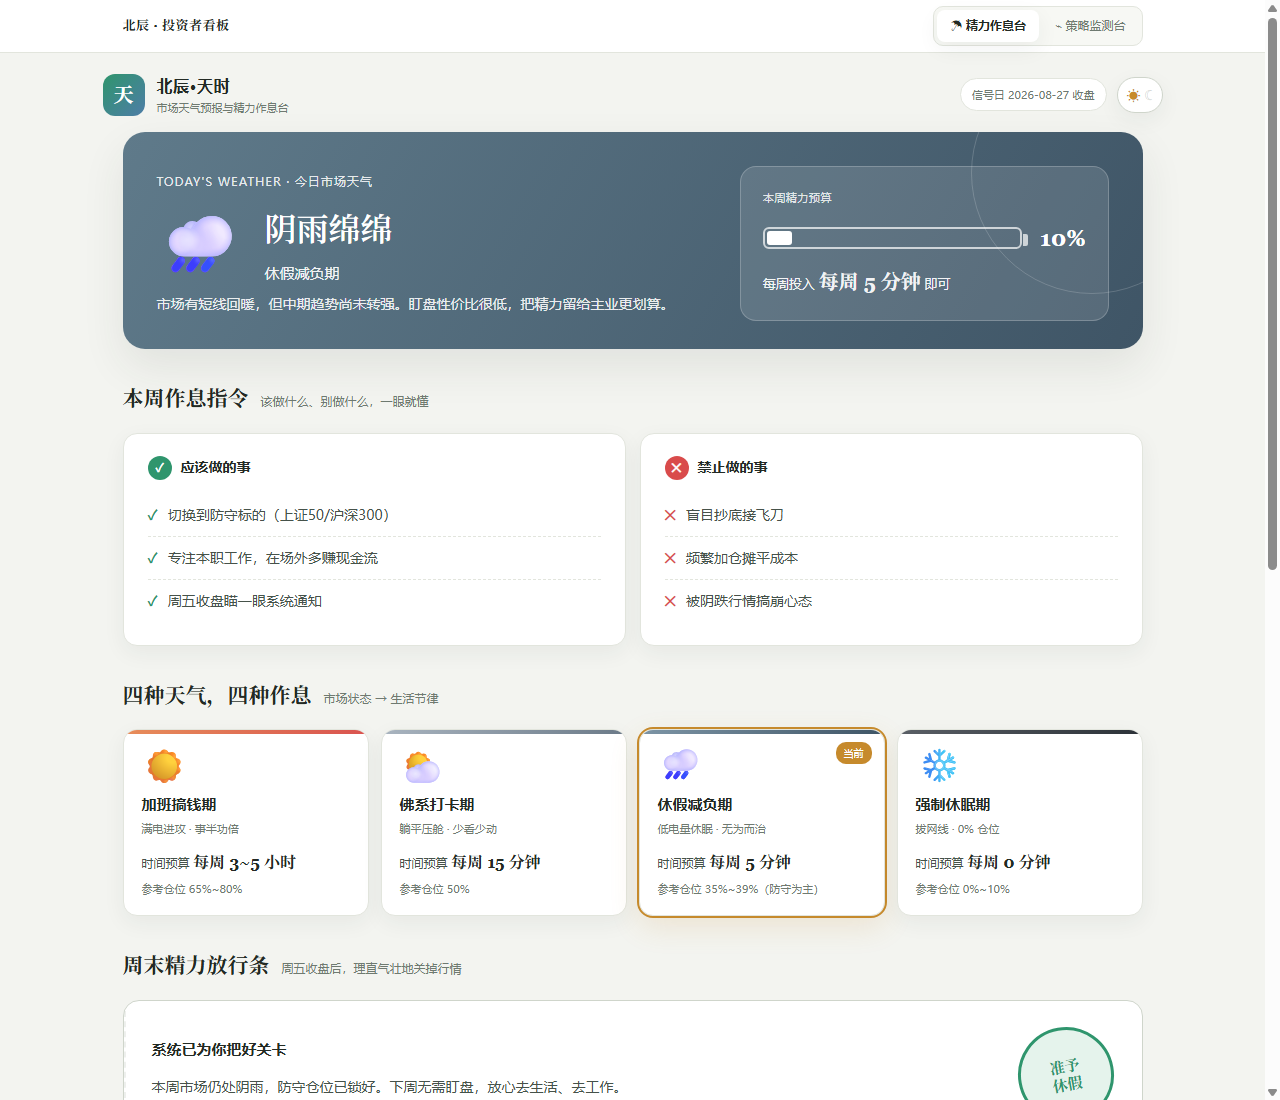
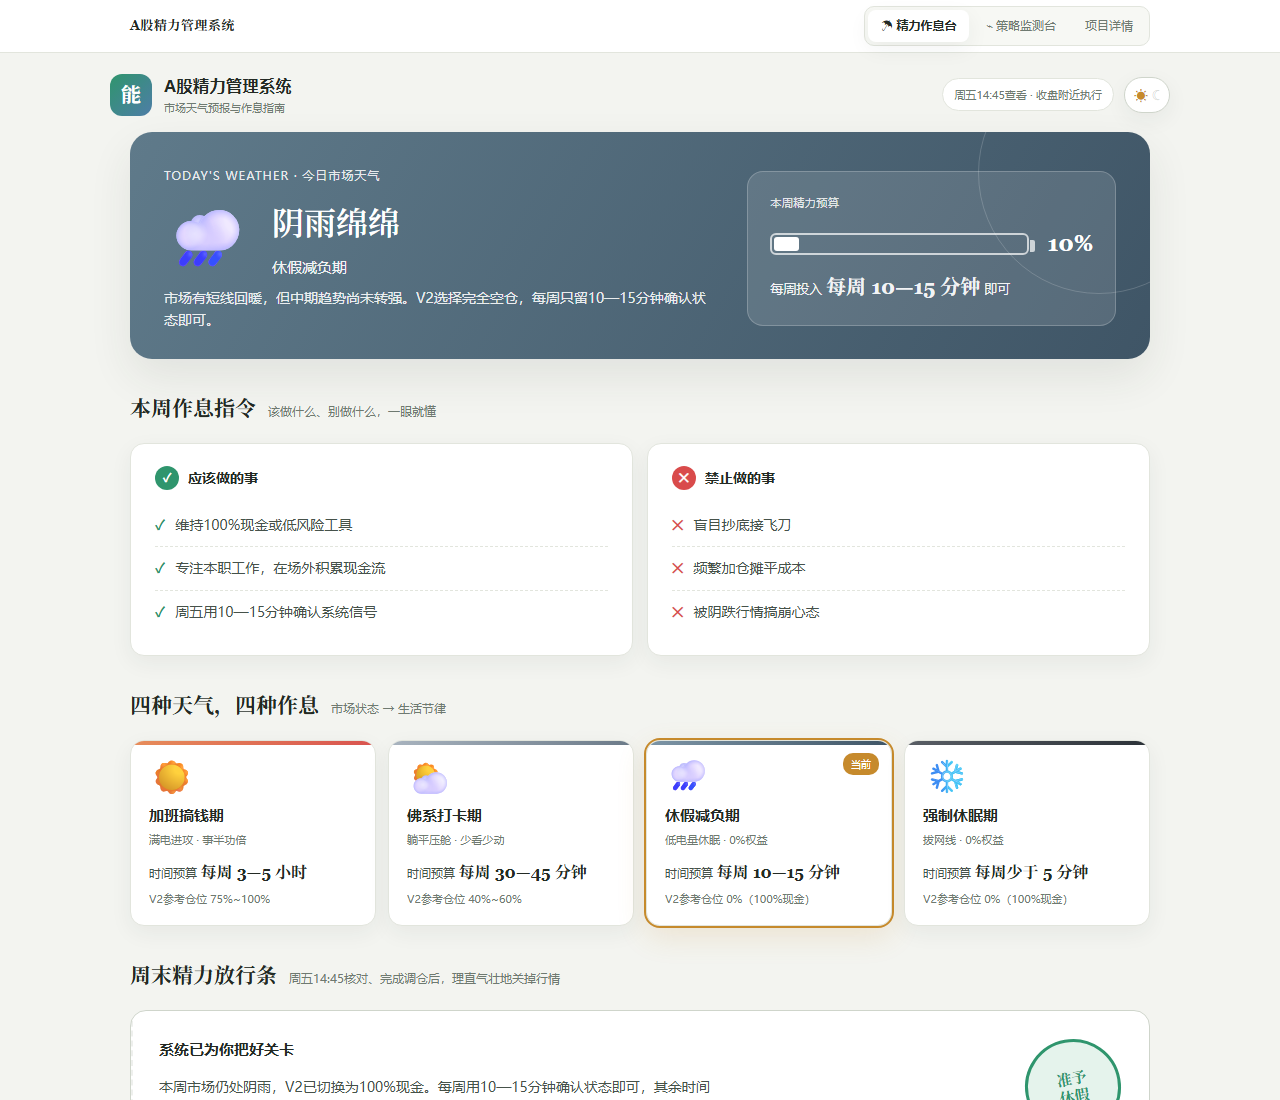
Refine investor energy time budgets

diff --git a/tianshi.html b/tianshi.html
@@ -166,7 +166,7 @@ footer{text-align:center;font-size:10px;color:var(--muted);padding:20px 0 40px}
       <div class="hero-right">
         <div class="label">本周精力预算</div>
         <div class="battery"><div class="battery-shell"><div id="batteryFill" class="battery-fill" style="width:10%"></div></div><div id="batteryNum" class="battery-num">10%</div></div>
-        <div class="time-budget">每周投入 <b id="timeBudget">5 分钟</b> 即可</div>
+        <div class="time-budget">每周投入 <b id="timeBudget">10—15 分钟</b> 即可</div>
       </div>
     </div>
   </section>
@@ -213,7 +213,7 @@ footer{text-align:center;font-size:10px;color:var(--muted);padding:20px 0 40px}
   <!-- 精力 ROI 账本 -->
   <div class="section-title"><h2>精力 ROI 账本</h2><span>聪明地偷懒，比盲目地勤奋更划算</span></div>
   <div class="card roi-rows">
-    <div class="roi-row"><div class="t"><b>本周节省的无谓盯盘时间</b><span>对比“每天盯盘约30分钟”的基线，按当前“每周5分钟”作息</span></div><div class="v" id="savedTime">≈ 2.4 小时</div></div>
+    <div class="roi-row"><div class="t"><b>本周节省的无谓盯盘时间</b><span id="savedTimeBasis">对比“每天盯盘约30分钟”的基线，按当前“每周10—15分钟”作息</span></div><div class="v" id="savedTime">≈ 2.3 小时</div></div>
     <div class="roi-row"><div class="t"><b>因空仓/低仓少亏的金额</b><span>需接入你的真实持仓与历史数据后生效</span></div><div class="v na">待接入账户</div></div>
     <div class="roi-row"><div class="t"><b>顺势加仓带来的收益</b><span>进攻期才会产生，当前处于防守期，暂不计</span></div><div class="v na">当前未开启</div></div>
   </div>
@@ -260,29 +260,29 @@ const SNAP = {
   ]
 };
 const ENERGY = {
-  bull:{key:"sun",weather:"阳光明媚",emoji:"☀",mode:"加班搞钱期",tagline:"满电进攻 · 事半功倍",time:"每周 3~5 小时",energy:90,pos:"V2参考仓位 75%~100%",
+  bull:{key:"sun",weather:"阳光明媚",emoji:"☀",mode:"加班搞钱期",tagline:"满电进攻 · 事半功倍",time:"每周 3—5 小时",minutes:240,energy:90,pos:"V2参考仓位 75%~100%",
     sub:"全市场上升趋势确立，赚钱效应扩散。此时投入精力产出最高，值得研究复合动量Top 2并顺势而为。",
     dos:["认真学习领涨行业与ETF","核对复合动量Top 2","检查持仓是否跌破自身MA4"],
     donts:["因恐高而过早下车","频繁做短线 T、来回折腾","追买情绪已经过热的题材"],
     pass:"东风送暖，赚钱效应扩散。本周值得多花精力，研究领涨ETF并顺势而为。",
     stamp:"开搞"},
-  shock:{key:"cloud",weather:"多云转阴",emoji:"⛅",mode:"佛系打卡期",tagline:"躺平压舱 · 少看少动",time:"每周 15 分钟",energy:30,pos:"V2参考仓位 40%~60%",
-    sub:"市场多空拉锯、热点切换较快。只从站上MA12的ETF中选择复合动量Top 2，避免死守弱势方向。",
-    dos:["周五14:45打卡看一眼","核对MA12之上的动量Top 2","按规则保持仓位，不追日内热点"],
+  shock:{key:"cloud",weather:"多云转阴",emoji:"⛅",mode:"佛系打卡期",tagline:"躺平压舱 · 少看少动",time:"每周 30—45 分钟",minutes:37.5,energy:30,pos:"V2参考仓位 40%~60%",
+    sub:"市场多空拉锯、热点切换较快。每周预留30—45分钟核对趋势、持仓与执行条件，不追逐日内噪音。",
+    dos:["周五14:45开始核对信号","检查MA12之上的动量Top 2","用30—45分钟完成复盘与调仓"],
     donts:["听小道消息追高","每天盯盘猜涨跌","频繁切换热点板块"],
-    pass:"市场多云震荡，只需周五花15分钟核对一次信号，其余时间安心生活。",
+    pass:"市场多云震荡，本周只需预留30—45分钟完成核对与必要调仓，其余时间安心生活。",
     stamp:"省电"},
-  bear:{key:"rain",weather:"阴雨绵绵",emoji:"🌧",mode:"休假减负期",tagline:"低电量休眠 · 0%权益",time:"每周 5 分钟",energy:10,pos:"V2参考仓位 0%（100%现金）",
-    sub:"市场有短线回暖，但中期趋势尚未转强。V2选择完全空仓，把精力留给主业更划算。",
-    dos:["维持100%现金或低风险工具","专注本职工作，在场外积累现金流","周五14:45瞄一眼系统信号"],
+  bear:{key:"rain",weather:"阴雨绵绵",emoji:"🌧",mode:"休假减负期",tagline:"低电量休眠 · 0%权益",time:"每周 10—15 分钟",minutes:12.5,energy:10,pos:"V2参考仓位 0%（100%现金）",
+    sub:"市场有短线回暖，但中期趋势尚未转强。V2选择完全空仓，每周只留10—15分钟确认状态即可。",
+    dos:["维持100%现金或低风险工具","专注本职工作，在场外积累现金流","周五用10—15分钟确认系统信号"],
     donts:["盲目抄底接飞刀","频繁加仓摊平成本","被阴跌行情搞崩心态"],
-    pass:"本周市场仍处阴雨，V2已切换为100%现金。下周无需盯盘，放心去生活、去工作。",
+    pass:"本周市场仍处阴雨，V2已切换为100%现金。每周用10—15分钟确认状态即可，其余时间放心生活、工作。",
     stamp:"休假"},
-  crisis:{key:"storm",weather:"特大暴风雪",emoji:"❄",mode:"强制休眠期",tagline:"拔网线 · 0%权益",time:"每周 0 分钟",energy:0,pos:"V2参考仓位 0%（100%现金）",
-    sub:"市场处于系统性出清阶段，任何主观努力都无效。关掉软件，是当下最优策略。",
-    dos:["切换为现金 / 国债逆回购","把炒股 App 移入二级文件夹","健身、读书、陪伴家人"],
+  crisis:{key:"storm",weather:"特大暴风雪",emoji:"❄",mode:"强制休眠期",tagline:"拔网线 · 0%权益",time:"每周少于 5 分钟",minutes:5,energy:0,pos:"V2参考仓位 0%（100%现金）",
+    sub:"市场处于系统性出清阶段，不做研究和择时，只用不到5分钟确认系统仍处危机状态。",
+    dos:["切换为现金 / 国债逆回购","每周快速确认一次危机状态","健身、读书、陪伴家人"],
     donts:["进行任何买入操作","频繁刷新行情软件","在恐慌中割肉离场"],
-    pass:"市场风雪交加，系统已为你空仓避险。彻底关掉软件，好好休息。",
+    pass:"市场风雪交加，系统已为你空仓避险。每周花不到5分钟确认状态后，彻底关掉软件。",
     stamp:"冬眠"}
 };
 const REGIME_KEY = { bull:"多头进攻态", shock:"中性震荡态", bear:"弱势防守态", crisis:"极端空头态" };
@@ -334,7 +334,9 @@ function render(){
   $("kvRegime").textContent = REGIME_KEY[regime] + "（" + cfg.mode + "）";
   $("kvEquity").textContent = cfg.pos;
   $("compBar").style.width = fmtPct(b.comp);
-  const savedH = (2.5 - 5/60).toFixed(1);
+  const weeklyBaselineMinutes = 5 * 30;
+  const savedH = Math.max(0, (weeklyBaselineMinutes - cfg.minutes) / 60).toFixed(1);
+  $("savedTimeBasis").textContent = `对比“每个交易日盯盘约30分钟”的基线，按当前“${cfg.time}”作息`;
   $("savedTime").textContent = "≈ " + savedH + " 小时";
 }
 const urgeText = {
